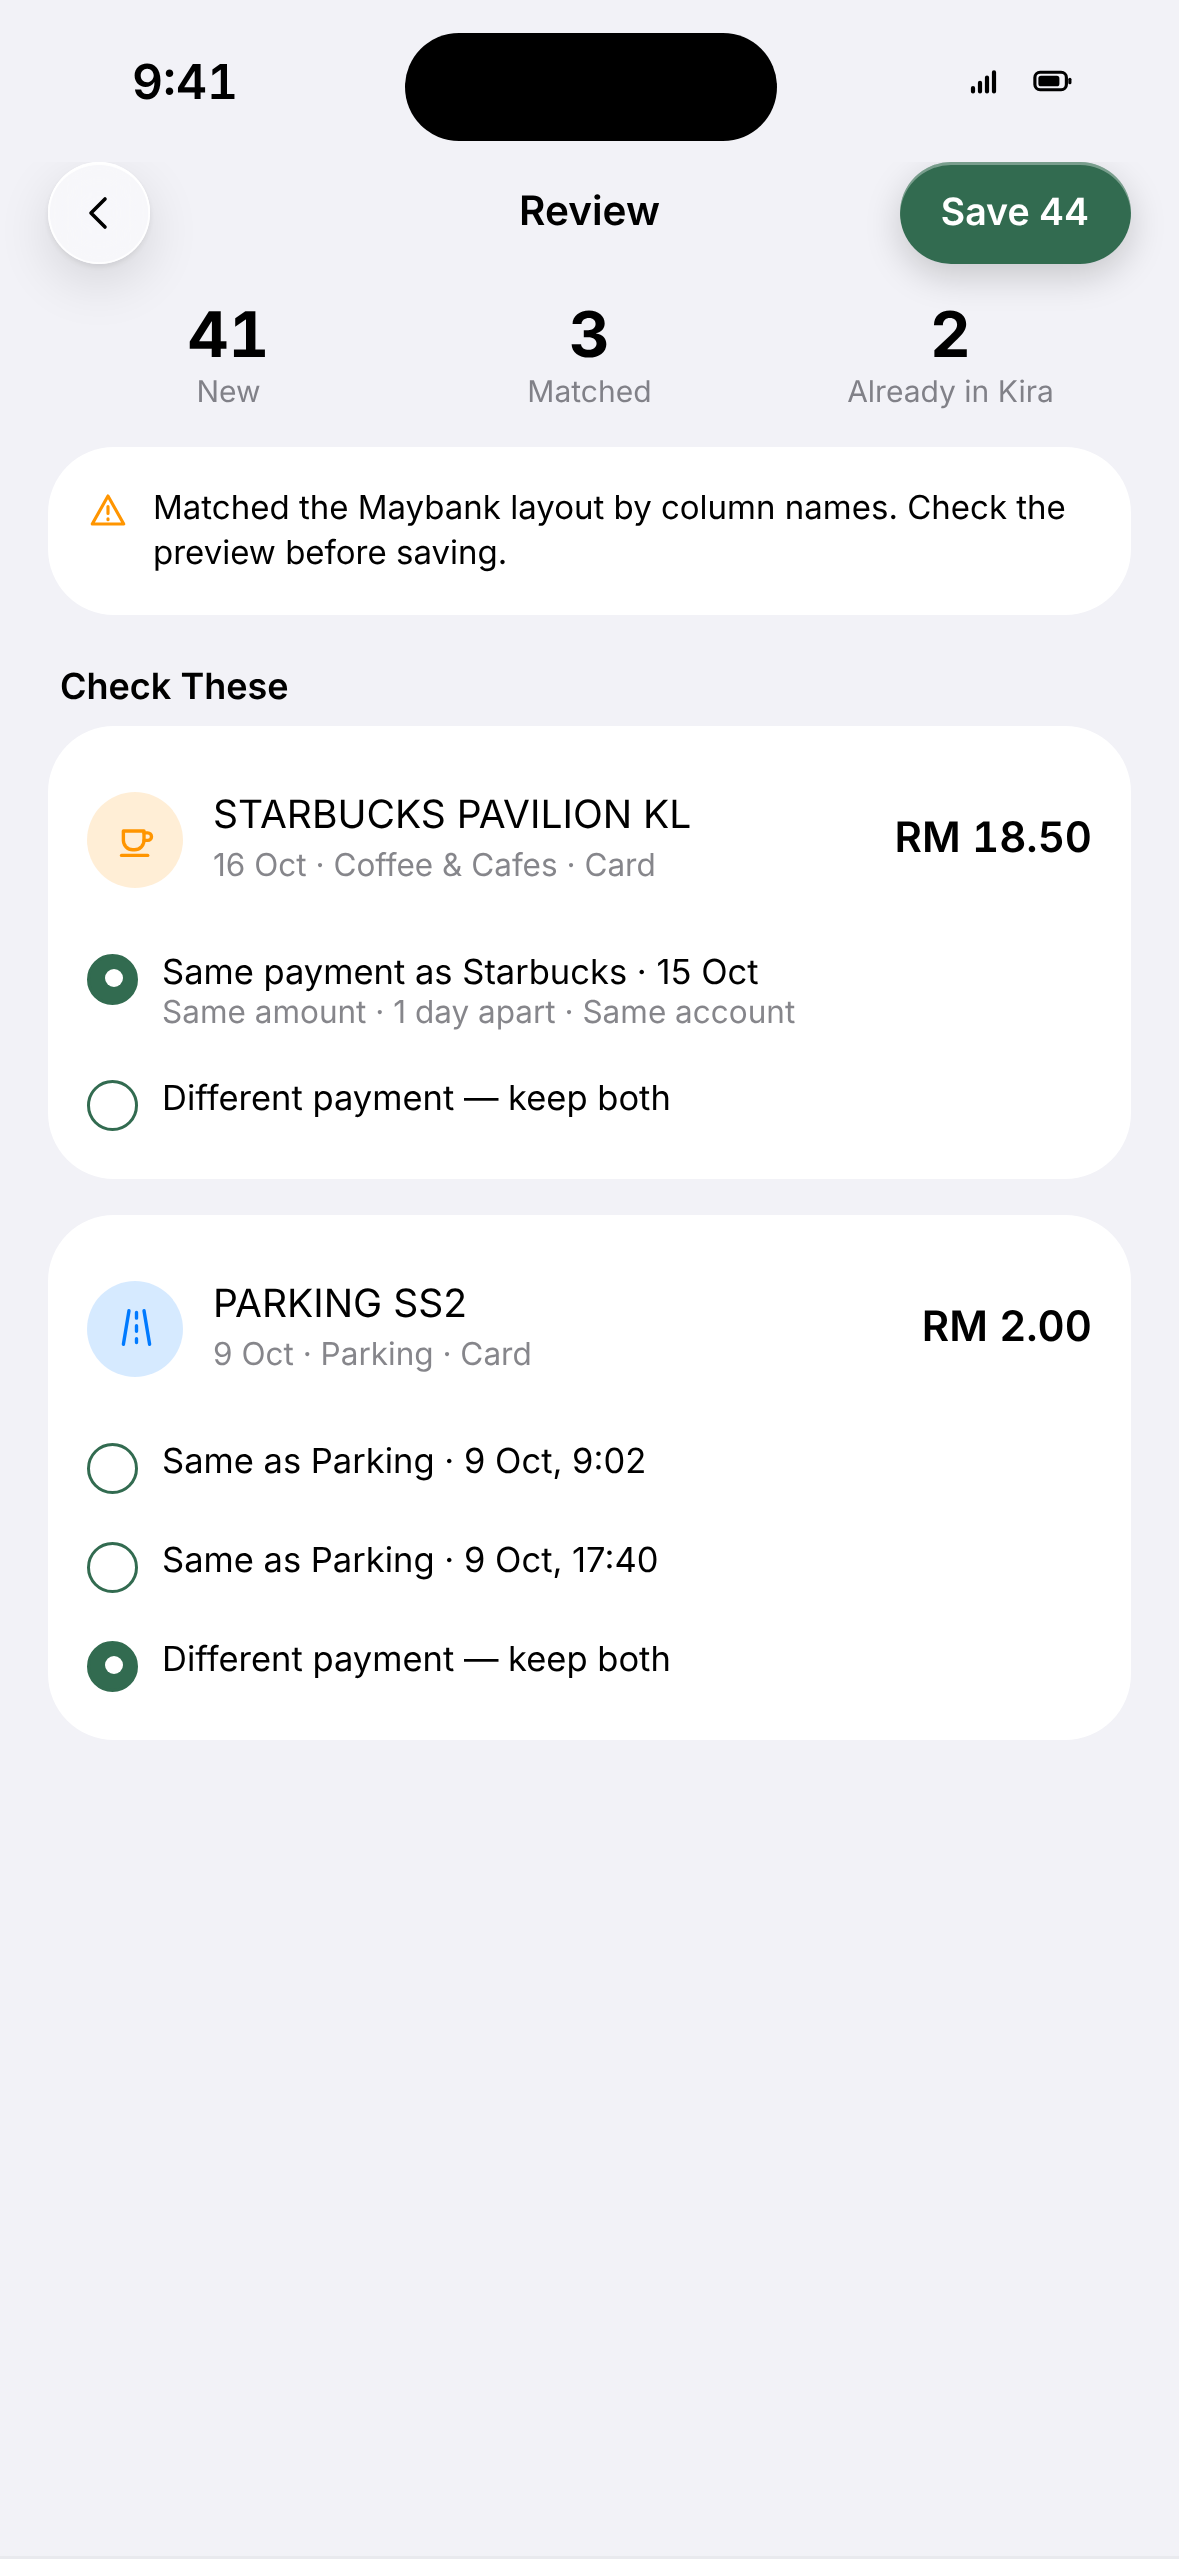
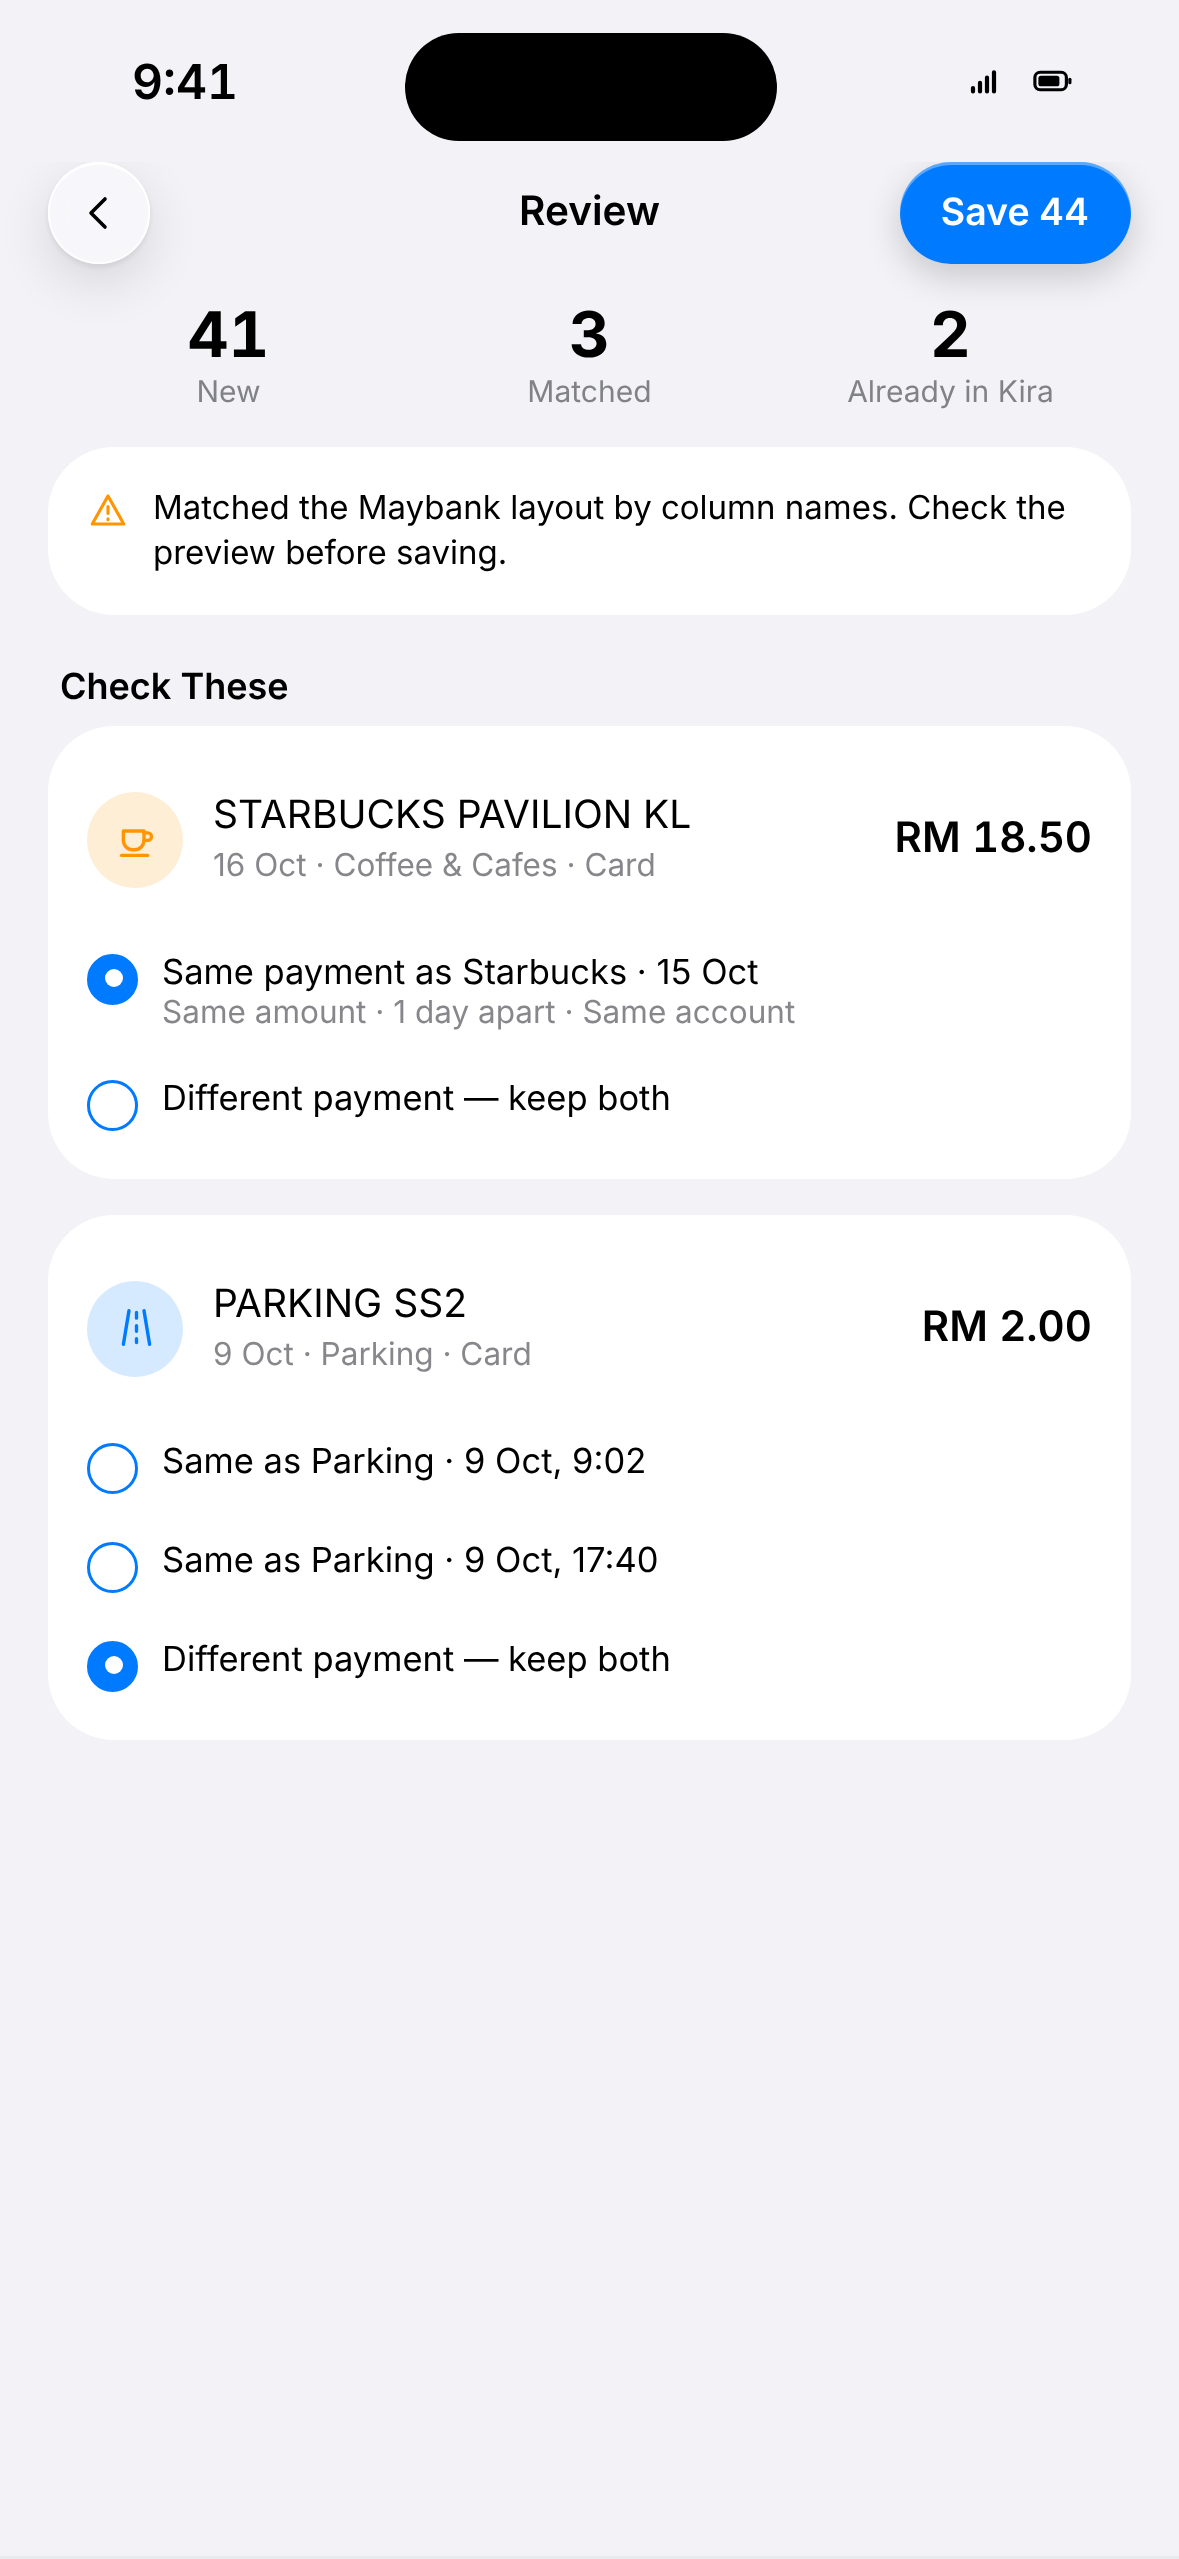
Use Apple's system colours only
Remove the custom green AccentColor so the app tint is the system default
(systemBlue). Money in uses systemGreen alongside its + sign. Update
DESIGN.md and regenerate the design renders.

Claude-Session: https://claude.ai/code/session_01Qk4R345JTW7rgCLoY19pfF

diff --git a/Kira/Kira/DesignSystem/Theme.swift b/Kira/Kira/DesignSystem/Theme.swift
@@ -7,8 +7,8 @@ import KiraCore
 /// Per the Human Interface Guidelines (Color): use system colours so the app adapts to light,
 /// dark and Increase Contrast automatically, use the *grouped* background set for grouped
 /// content, and keep semantic meanings intact (separator is never text, secondaryLabel is
-/// never a background). The brand green lives only in the asset-catalog AccentColor, which
-/// ships light, dark and high-contrast variants.
+/// never a background). Kira uses Apple's colours only: there is no custom brand colour,
+/// so the app tint is the system default (systemBlue).
 enum KiraColor {
     /// Primary background of every screen (grouped layout).
     static let background = Color(uiColor: .systemGroupedBackground)
@@ -23,8 +23,8 @@ enum KiraColor {
     /// Unfilled portion of progress bars.
     static let track = Color(uiColor: .tertiarySystemFill)
 
-    /// App accent (brand green from the asset catalog). Used for interactivity and the single
-    /// chart series — never for non-interactive body text.
+    /// App tint: the system accent (systemBlue unless the user's device says otherwise). Used for
+    /// interactivity and the single chart series — never for non-interactive body text.
     static let accent = Color.accentColor
     static var accentSoft: Color { Color.accentColor.opacity(0.14) }
 
@@ -33,6 +33,7 @@ enum KiraColor {
     static var warningSoft: Color { Color(uiColor: .systemOrange).opacity(0.14) }
     static let error = Color(uiColor: .systemRed)
     static var errorSoft: Color { Color(uiColor: .systemRed).opacity(0.12) }
+    /// Money in (income, refunds) — paired with a "+" sign, never colour alone.
     static let positive = Color(uiColor: .systemGreen)
 
     /// Category tint tokens → system colours (adapt to dark mode and Increase Contrast).

diff --git a/Kira/Kira/Features/Transactions/TransactionDetailView.swift b/Kira/Kira/Features/Transactions/TransactionDetailView.swift
@@ -37,7 +37,7 @@ struct TransactionDetailView: View {
                     CategoryIcon(category: store.category(LedgerCalculator.effectiveCategory(of: record)), size: 56)
                     Text(record.displayName).font(.title3.weight(.semibold)).multilineTextAlignment(.center)
                     MoneyText(money: record.signedAmount, style: MoneyFormatter(signStyle: .always), font: .kiraHero)
-                        .foregroundStyle(record.direction == .inflow ? KiraColor.accent : KiraColor.textPrimary)
+                        .foregroundStyle(record.direction == .inflow ? KiraColor.positive : KiraColor.textPrimary)
                     StatusBadge(status: record.status)
                     Text(record.transactionDate.formatted(date: .complete, time: .shortened)).font(.footnote).foregroundStyle(KiraColor.textSecondary)
                 }

diff --git a/Kira/Kira/Features/Transactions/TransactionRow.swift b/Kira/Kira/Features/Transactions/TransactionRow.swift
@@ -45,7 +45,7 @@ struct TransactionRow: View {
         Text((isInflow ? "+" : "") + style.string(from: record.amount))
             .font(.body.weight(.semibold))
             .monospacedDigit()
-            .foregroundStyle(isInflow ? KiraColor.accent : (record.kind.isInternalMovement || record.kind == .debtRepayment ? KiraColor.textSecondary : KiraColor.textPrimary))
+            .foregroundStyle(isInflow ? KiraColor.positive : (record.kind.isInternalMovement || record.kind == .debtRepayment ? KiraColor.textSecondary : KiraColor.textPrimary))
             .strikethrough(record.status == .draft, color: KiraColor.textSecondary)
             .accessibilityLabel((isInflow ? "received " : "spent ") + MoneyFormatter.standard.accessibilityString(from: record.amount))
     }

diff --git a/docs/DESIGN.md b/docs/DESIGN.md
@@ -17,8 +17,8 @@ Kira follows Apple's [Human Interface Guidelines](https://developer.apple.com/de
 | Use one prominent button for the most likely action in a view (Buttons) | `.kiraProminentButton()` → `.glassProminent` (iOS 26) / `.borderedProminent` |
 | Use a large title to keep people oriented (Toolbars › iOS); keep titles short and don't use the app name (Toolbars › Titles) | Root screens use large titles. Summary shows the greeting and date as a subtitle (`navigationSubtitle`, iOS 26) |
 | Use system colours and the grouped background set for grouped content; keep semantic meanings (Color) | `KiraColor` maps to `systemGroupedBackground`, `secondarySystemGroupedBackground`, `label`, `secondaryLabel`, `separator`, `tertiarySystemFill`, and system orange/red/green |
-| Supply light, dark **and increased-contrast** variants of custom colours (Color) | AccentColor ships four variants: light, dark, high-contrast light and high-contrast dark |
-| Apps with mostly monochromatic content may use the brand colour as the accent; apply colour to glass sparingly (Color › Liquid Glass color) | The brand green is the only accent. Toolbars and tab bars keep the default monochrome glass |
+| Prefer system colours; custom colours need light, dark and increased-contrast variants (Color) | Kira has **no custom colours**. The app tint is the system accent (systemBlue), and every other colour is a dynamic system colour, so all variants come from iOS |
+| Apply colour to Liquid Glass sparingly (Color › Liquid Glass color) | Toolbars and tab bars keep the default monochrome glass. The system tint marks only interactive elements and the single chart series. Money in uses systemGreen with a "+" sign |
 | Don't rely on colour alone (Color › Inclusive color) | Status is always text and symbol (Pending, Not paid yet, Matched seal). The budget bar states its % in text |
 | Use built-in text styles for Dynamic Type; keep truncation low at large sizes (Typography) | All text uses text styles (`.largeTitle`, `.title3`, `.body`, `.footnote`…). Money uses the rounded design with `monospacedDigit()`. A UI test runs at AccessibilityXXXL |
 | Charts: summarise the main message, start bars at zero, use familiar ticks, support VoiceOver and Audio Graphs (Charts) | Trend chart has a one-line summary, `includesZero: true`, 3 automatic ticks, per-mark labels and an `AXChartDescriptor` |
